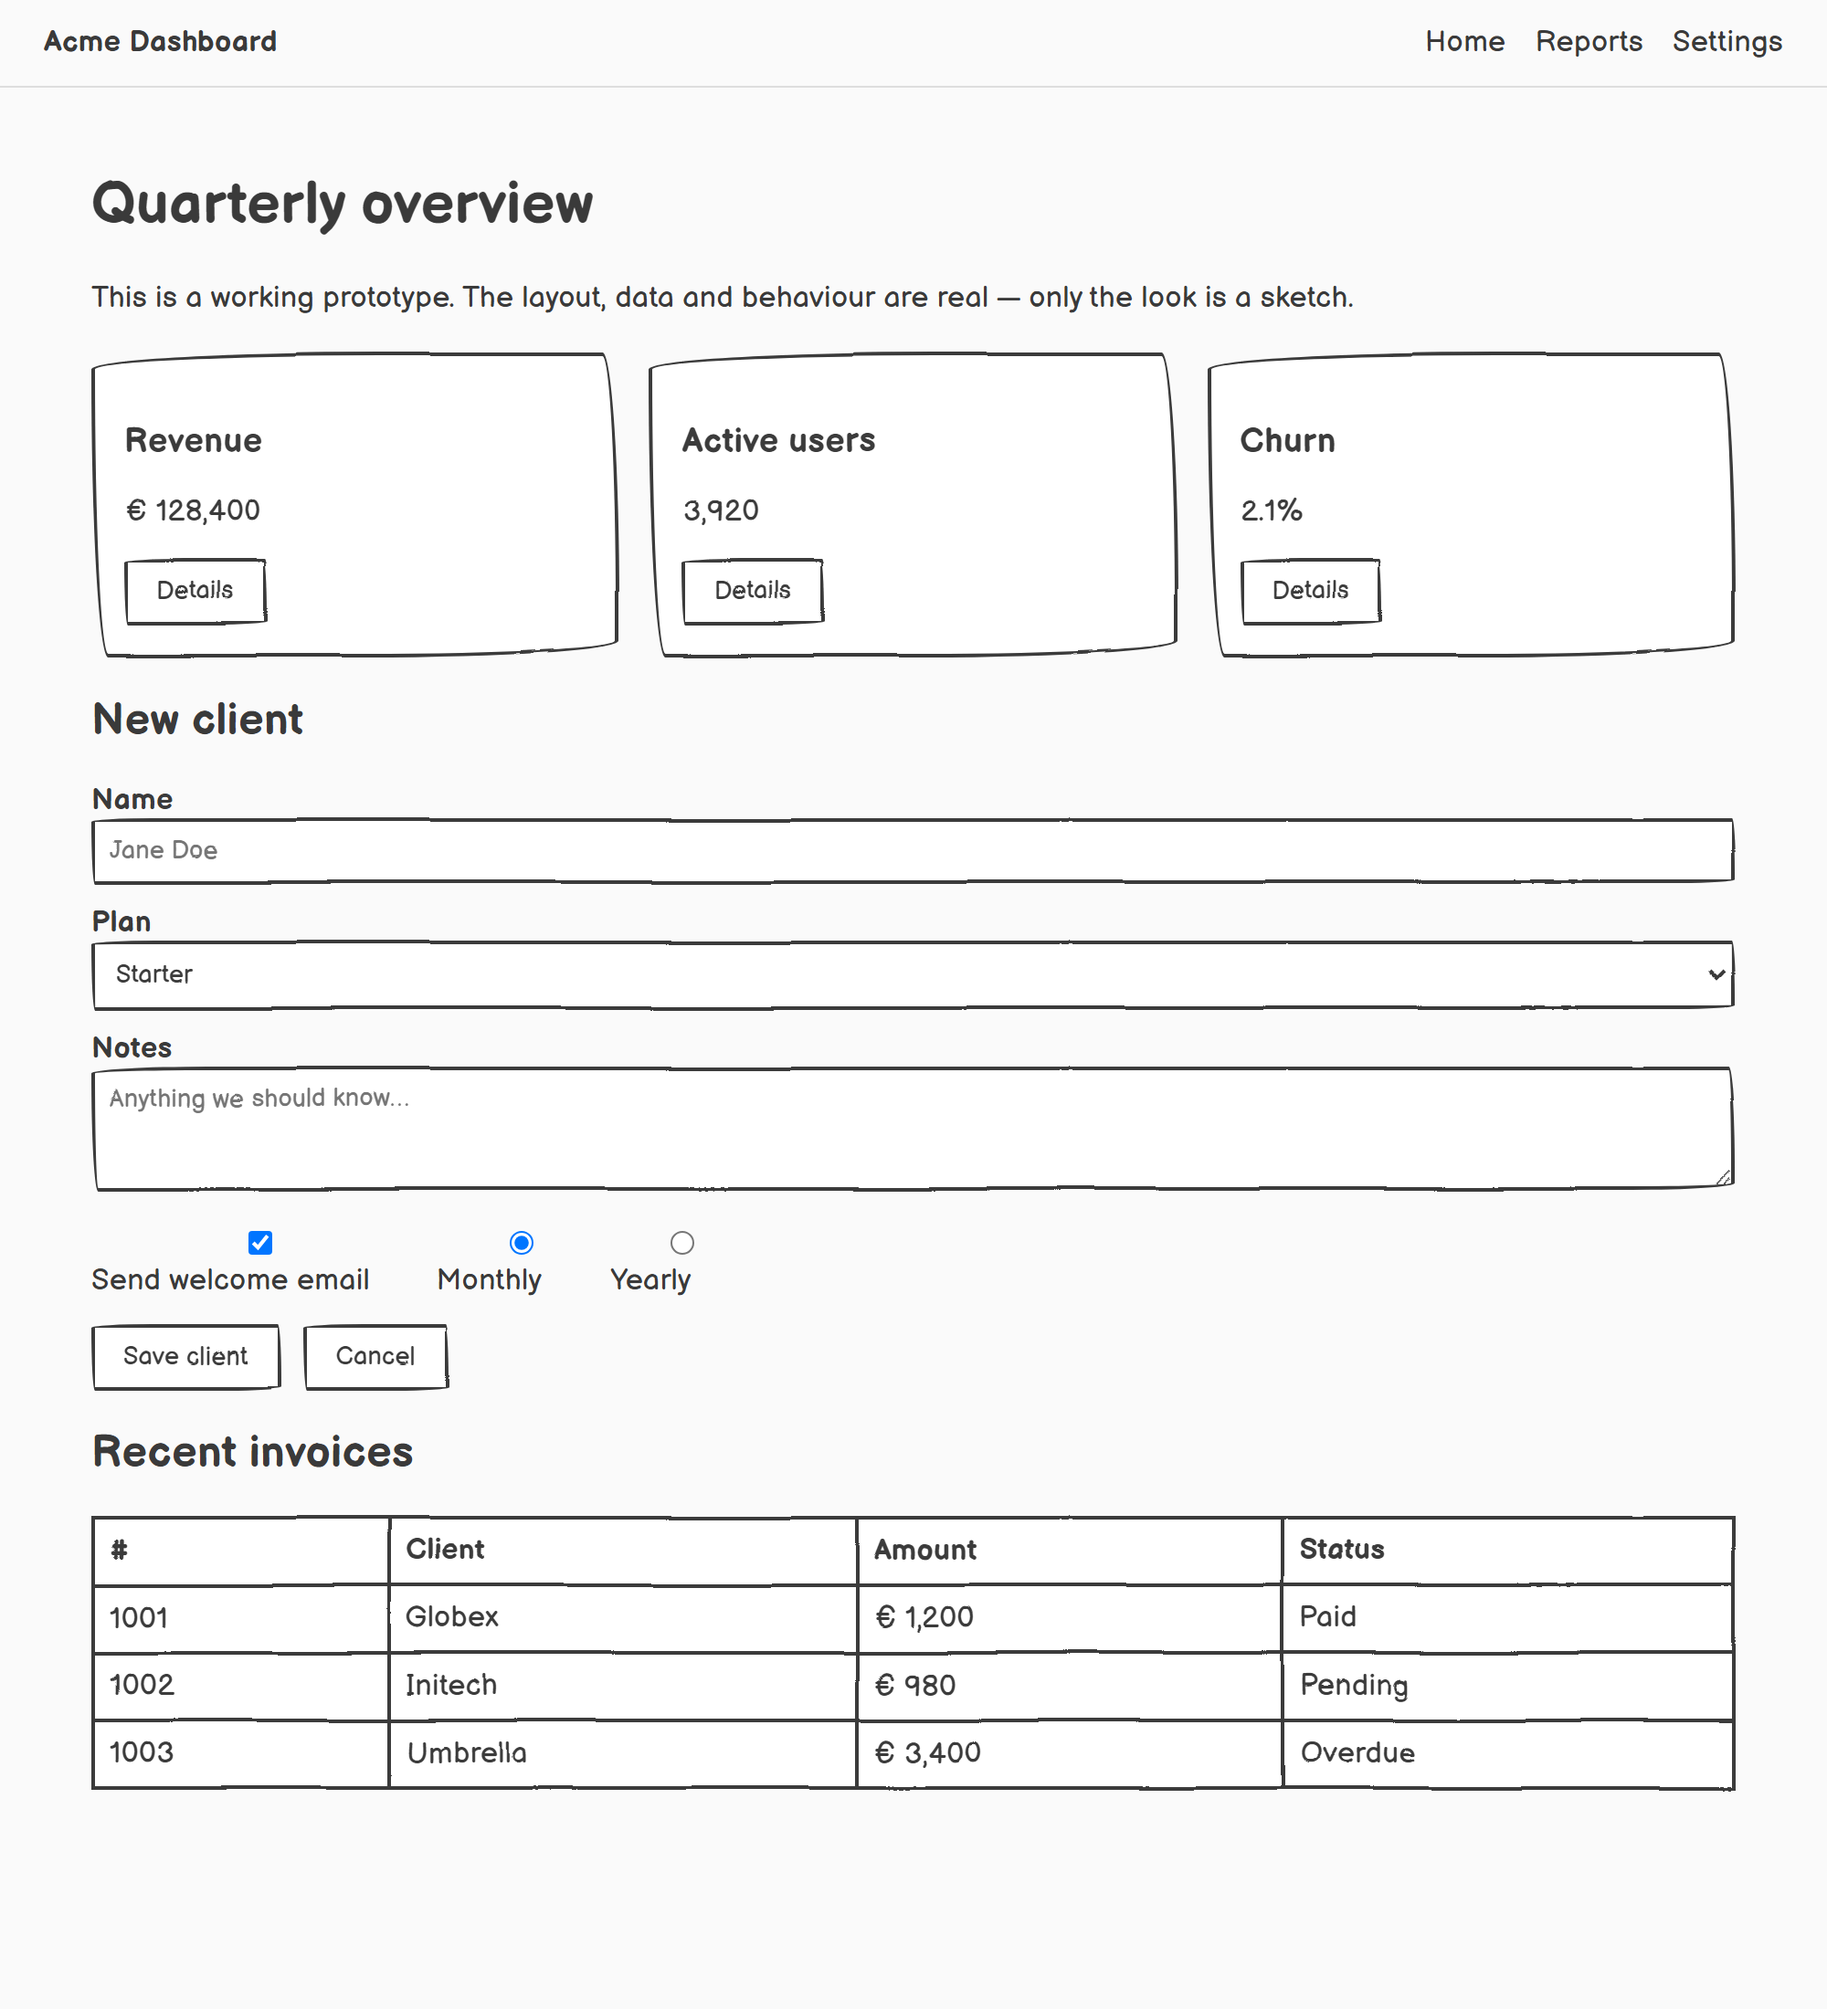
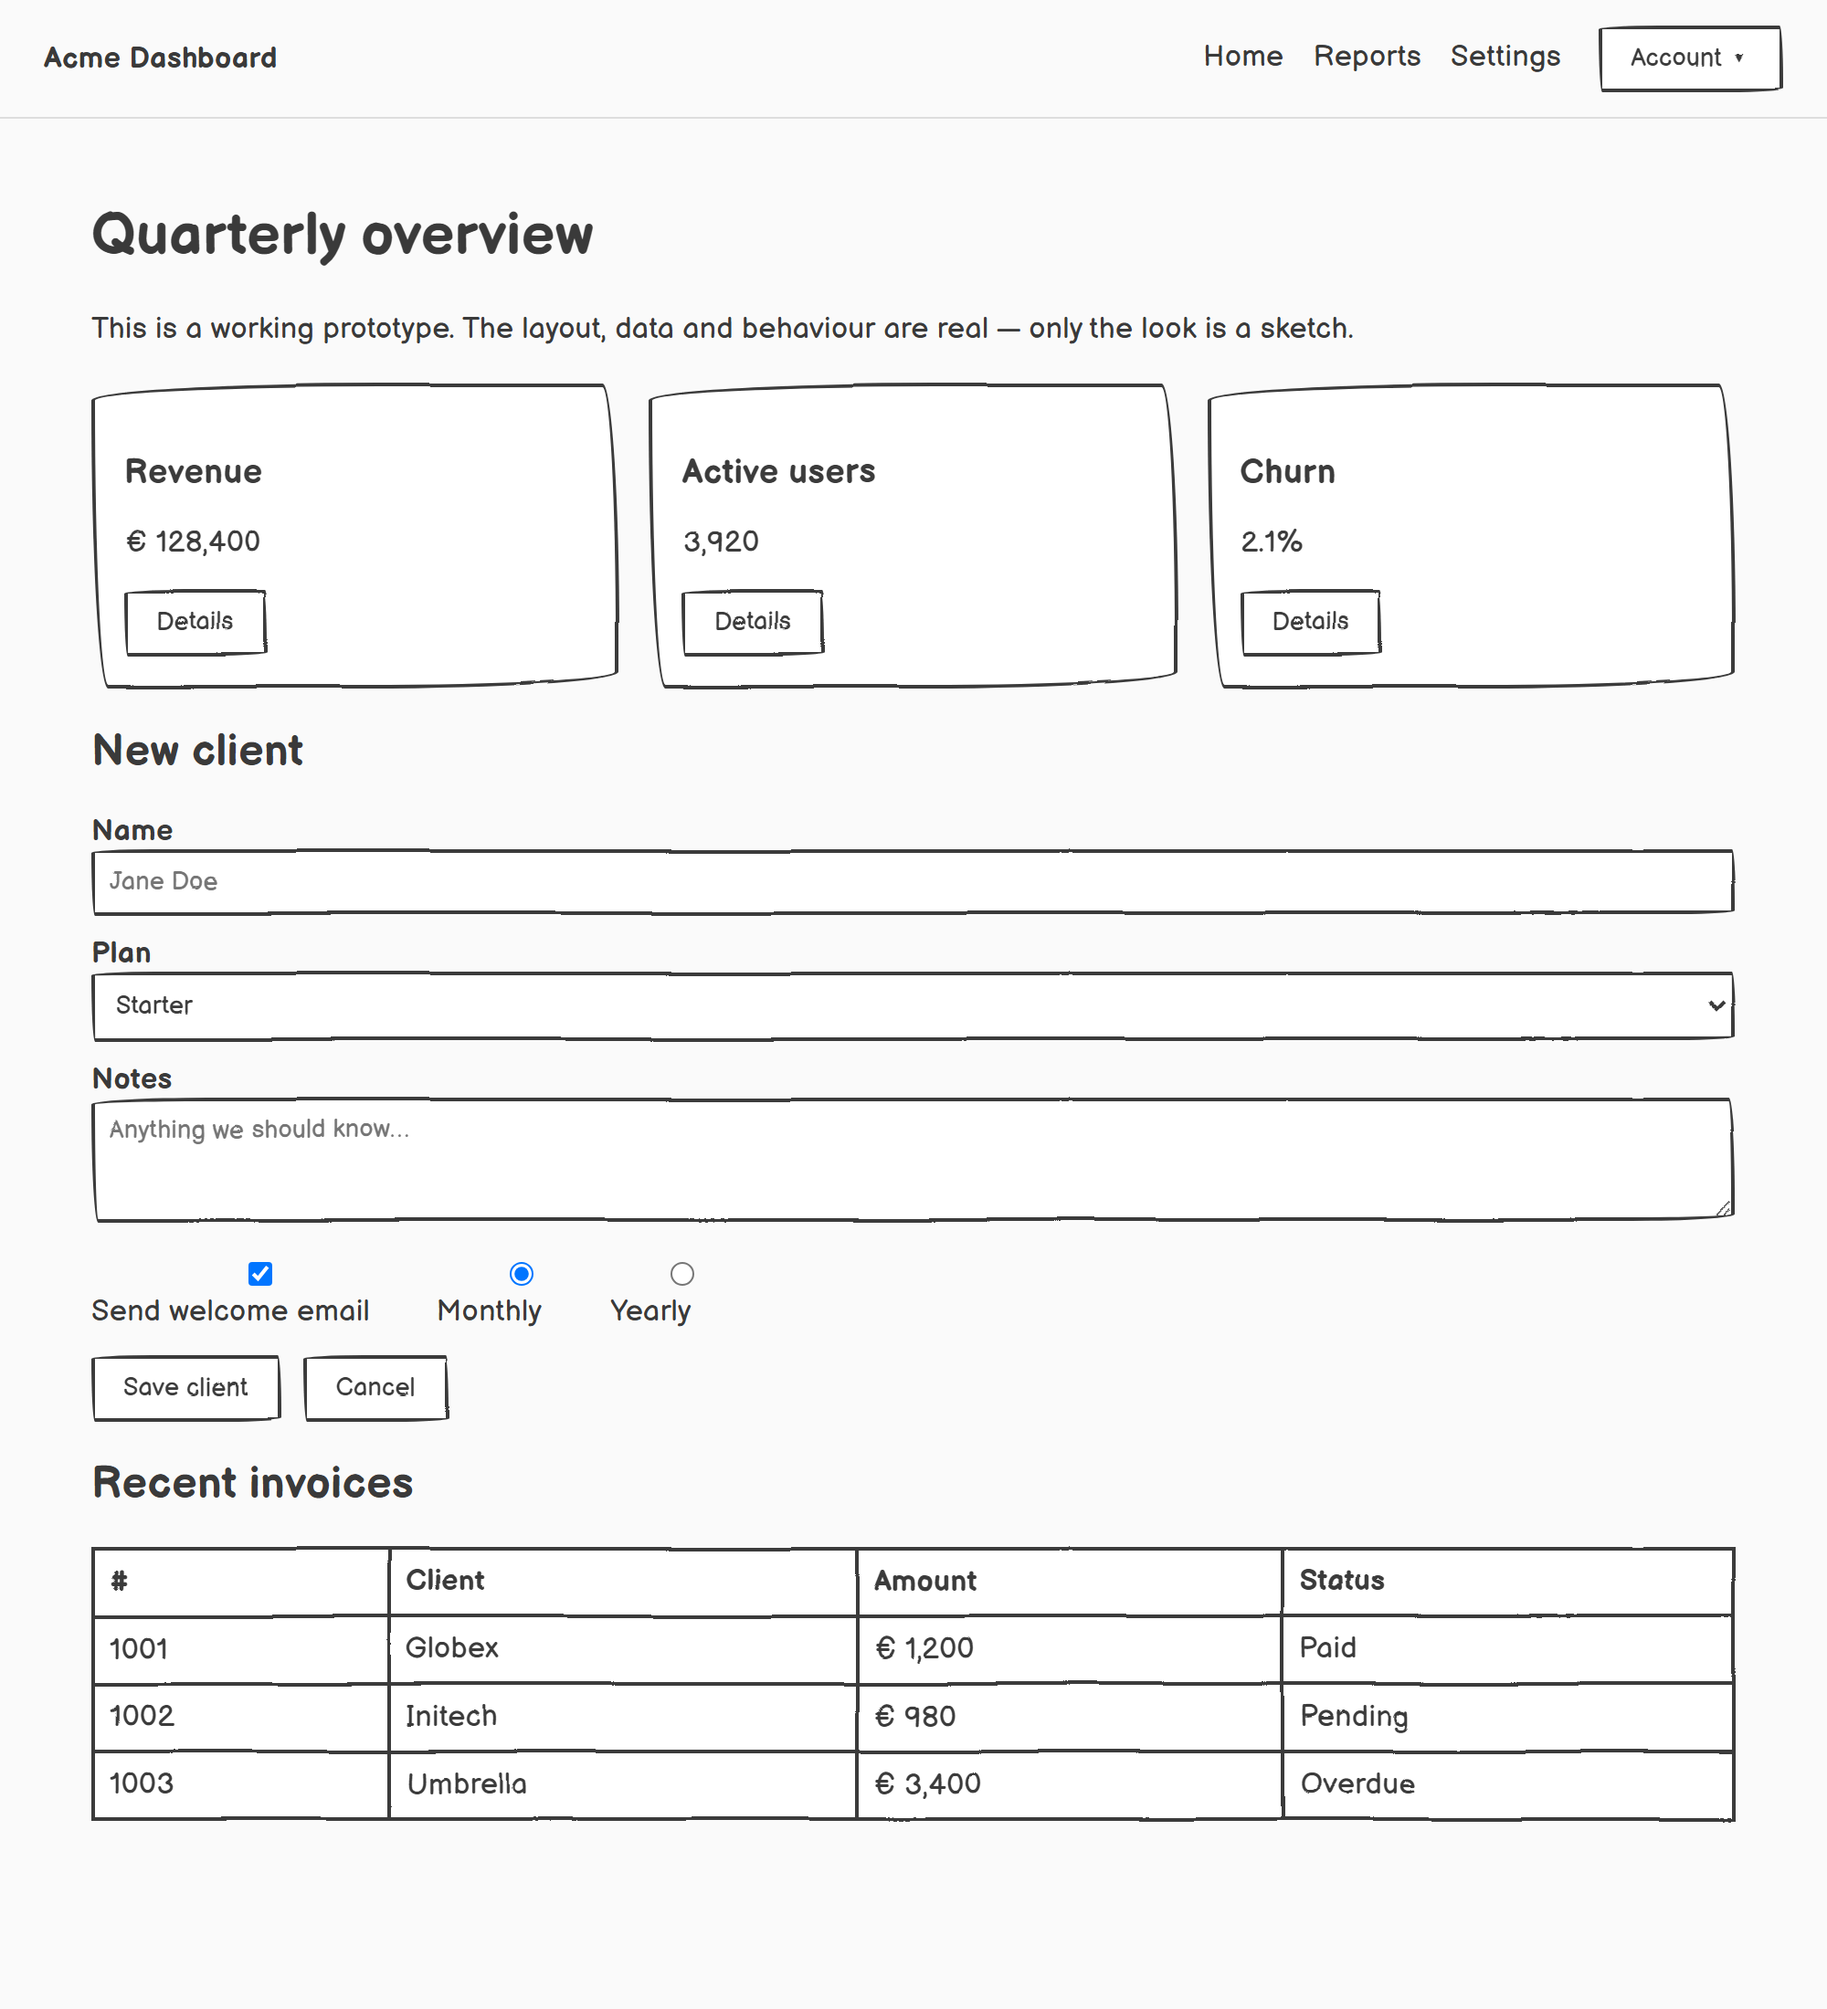
docs: release 1.1.1 - showcase watermark/modals in gallery, live CI badge
- Add feature screenshots (feature-watermark.png, feature-modal.png) and embed
  them in the README under the watermark and modal sections; regenerate the
  style/level gallery from the updated demo (now with a dropdown + dialog).
- Switch the README validation badge to this repo's own live GitHub Actions
  status badge (its validate.yml workflow) instead of a static placeholder.

diff --git a/scripts/validate_skill.py b/scripts/validate_skill.py
@@ -17,7 +17,7 @@ import sys
 from pathlib import Path
 
 SKILL_NAME = "prototype-sketching-skill"
-VERSION = "1.1.0"
+VERSION = "1.1.1"
 
 REQUIRED_FILES = [
     "SKILL.md",
@@ -88,7 +88,7 @@ def main() -> int:
         for needle, label in [
             (f"version-{VERSION}-", "version badge matching the current version"),
             ("Buy%20Me%20a%20Coffee", "Buy Me a Coffee badge"),
-            ("validation-GitHub%20Actions", "validation badge"),
+            ("actions/workflows/validate.yml/badge.svg", "live GitHub Actions validation badge"),
             ("badge/license-MIT", "license badge"),
         ]:
             if needle not in readme:

diff --git a/README.md b/README.md
@@ -1,9 +1,9 @@
 # Prototype Sketching Skill ✏
 
-[![version](https://img.shields.io/badge/version-1.1.0-blue)](CHANGELOG.md)
+[![version](https://img.shields.io/badge/version-1.1.1-blue)](CHANGELOG.md)
 [![status](https://img.shields.io/badge/status-stable-3fb950)](SKILL.md)
 [![category](https://img.shields.io/badge/category-design-0a7ea4)](SKILL.md)
-[![validation](https://img.shields.io/badge/validation-GitHub%20Actions-2088ff)](.github/workflows/validate.yml)
+[![validation](https://github.com/jovd83/prototype-sketching-skill/actions/workflows/validate.yml/badge.svg)](https://github.com/jovd83/prototype-sketching-skill/actions/workflows/validate.yml)
 [![license](https://img.shields.io/badge/license-MIT-green)](LICENSE)
 [![Buy Me a Coffee](https://img.shields.io/badge/Buy%20Me%20a%20Coffee-ffdd00?style=flat&logo=buy-me-a-coffee&logoColor=black)](https://buymeacoffee.com/jovd83)
 
@@ -89,6 +89,8 @@ the viewport. It is fixed and non-interactive (`pointer-events: none`), so it
 never blocks clicks or shifts layout. Any text works; remove the attribute to
 turn it off, or set it live from the overlay's **Watermark** field.
 
+![Diagonal DRAFT watermark with a sketched dropdown menu open](demo/screenshots/feature-watermark.png)
+
 ---
 
 ## Modals, popups & SPA navigation
@@ -100,6 +102,8 @@ ones, with a styled native `::backdrop`), and every screen you navigate to in a
 single-page app. Nothing to wire per component or per route. The overlay also
 re-injects the SVG filters if a framework swaps out `<body>` on navigation, so
 the wobble never silently drops.
+
+![A native dialog rendered in the Sharpie style with the sketch backdrop](demo/screenshots/feature-modal.png)
 
 ---
 

diff --git a/CHANGELOG.md b/CHANGELOG.md
@@ -14,6 +14,22 @@ to [Semantic Versioning](https://semver.org/spec/v2.0.0.html).
 
 ### Removed
 
+## [1.1.1] — 2026-06-29
+
+### Changed
+- The README **validation badge** now shows this repository's own live GitHub
+  Actions status (`actions/workflows/validate.yml/badge.svg`) instead of a static
+  placeholder, so it reflects the real result of the skill's own validation
+  workflow.
+
+### Added
+- Gallery screenshots for the 1.1.0 features:
+  `demo/screenshots/feature-watermark.png` (the diagonal `DRAFT` watermark with a
+  sketched dropdown menu) and `demo/screenshots/feature-modal.png` (a native
+  `<dialog>` in the Sharpie style with the sketch `::backdrop`), now shown in the
+  README. The bundled demo (`demo/demo.html`) gained an interactive account
+  dropdown and a confirmation dialog so the modal/popup coverage is exercised.
+
 ## [1.1.0] — 2026-06-29
 
 ### Added
